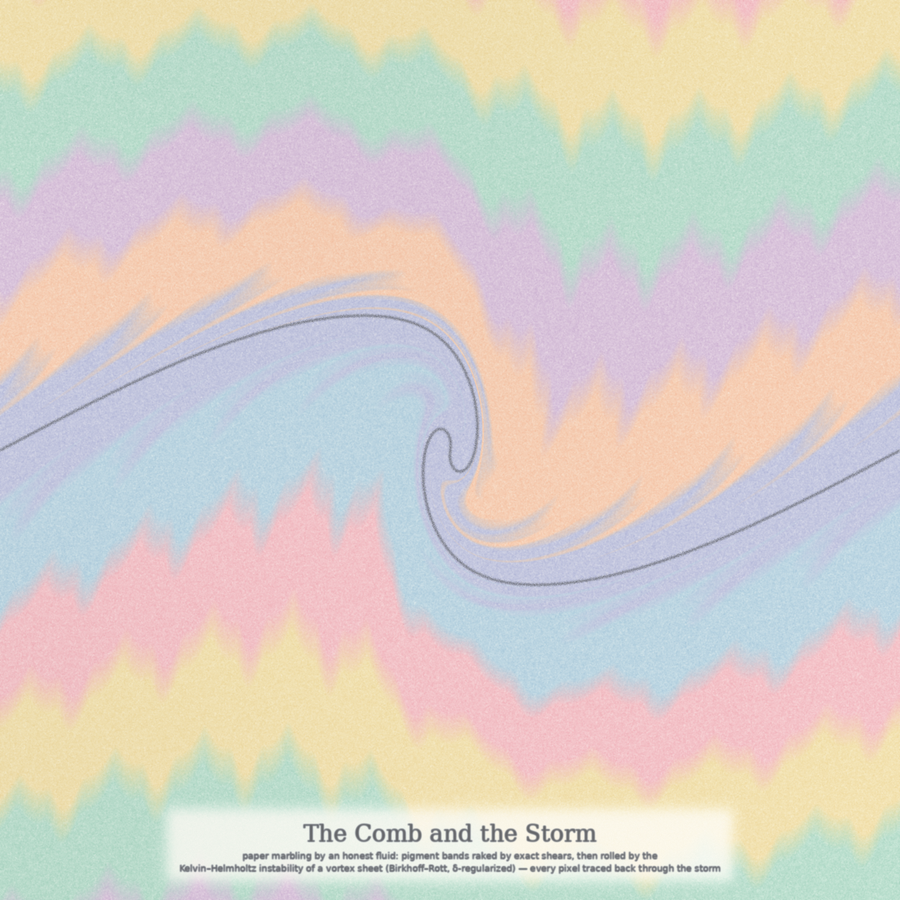
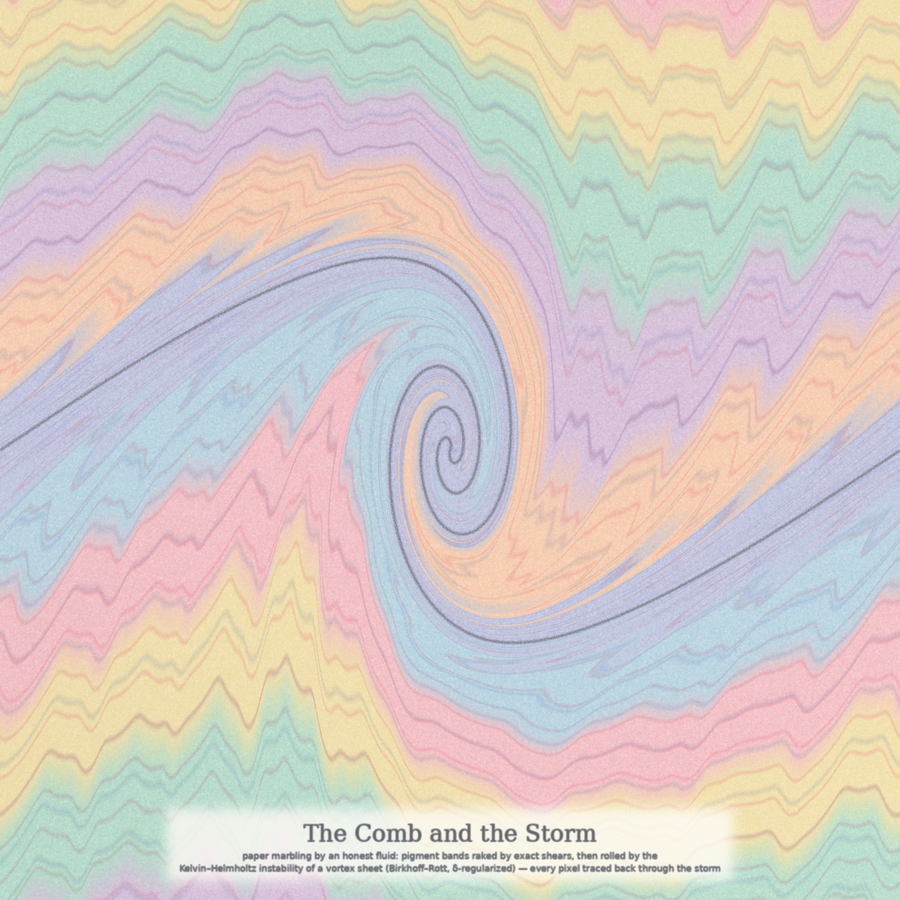
art_izli: dessins hero 4096 final (labels patched), poncelet 2560 v2 final, marble T=6.2 + pinstripes

diff --git a/art_izli/render_marble.py b/art_izli/render_marble.py
@@ -94,6 +94,14 @@ for bi, pig in enumerate(BANDS):
     # stretching-based darkening: pigment thins where the flow stretched it
     wc.wash(dens, pig, granulate=0.10)
 
+# thin accent pinstripes (finer period): the roll-up winds these into the
+# classic tightly-layered marbled curl near the core
+for period, pig, amp2, phase in ((0.115, 'rose', 0.30, 0.02),
+                                 (0.157, 'periwinkle', 0.22, 0.06)):
+    fr = np.mod(y + phase, period) / period
+    stripe = np.clip(1 - np.abs(fr - 0.5) / 0.10, 0, 1).astype(np.float32)
+    wc.wash(amp2 * stripe, pig, granulate=0.08)
+
 # ---- the sheet itself, faint graphite filament ------------------------------
 sx, sy = sheets[-1]
 keep = np.abs(sy) < YV * 0.98
